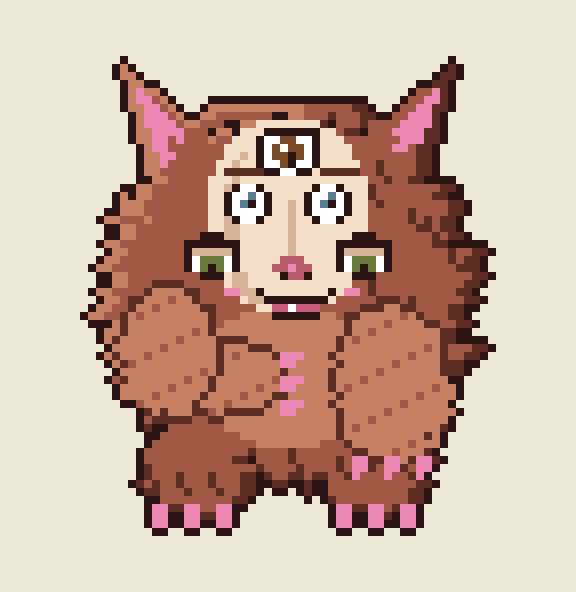
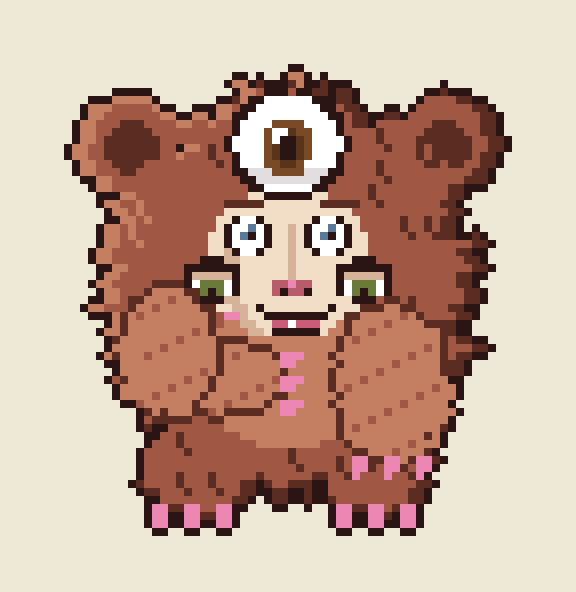
Creature concept: big cyclops eye near the peak, rounded fur ears
Claude-Session: https://claude.ai/code/session_01JpLHzsYAvEKzmccr94t7N9

diff --git a/android/play/concepts/make_creature.py b/android/play/concepts/make_creature.py
@@ -43,38 +43,40 @@ def fuzzy(cx, cy, rx, ry, c, seed, amp=0.08):
 # --- stubby legs with pink claws
 fuzzy(19, 53, 7, 5.5, 'F', 11); fuzzy(41, 53, 7, 5.5, 'F', 12)
 for x in (14, 18, 22, 37, 41, 45): poly([(x - 1.6, 57), (x + 1.6, 57), (x, 61)], 'P')
-# --- pointed ears, pink inside
-poly([(13, 18), (9, 2), (22, 12)], 'F'); poly([(14, 15), (11, 5), (19, 12)], 'P')
-poly([(47, 18), (51, 2), (38, 12)], 'F'); poly([(46, 15), (49, 5), (41, 12)], 'P')
-# --- the round fluffy body
-fuzzy(30, 31, 23, 22, 'F', 3, 0.07)
+# --- rounded furry ears (same fur, a darker inner hollow)
+fuzzy(10, 12, 6.5, 6, 'F', 31, 0.05); ell(10.5, 12.5, 3.6, 3.2, 'd')
+fuzzy(50, 12, 6.5, 6, 'F', 32, 0.05); ell(49.5, 12.5, 3.6, 3.2, 'd')
+# --- the round fluffy body, a little taller so the big eye sits near the peak
+fuzzy(30, 30, 23, 24, 'F', 3, 0.07)
 # a soft lighter belly
 ell(30, 41, 11, 9, 'f', keep='F')
 # --- the face patch: pale, a little long, like the drawing
-ell(30, 21, 10.5, 12.5, 'S')
-ell(26, 22, 4, 10, 's', keep='S'); ell(27.5, 21, 4, 10, 'S')
-# fur fringe over the forehead
-poly([(20, 7), (40, 7), (42, 11), (36, 9), (30, 8), (24, 9), (18, 11)], 'F')
+ell(30, 27, 10.5, 9.5, 'S')
+ell(26, 28, 4, 8, 's', keep='S'); ell(27.5, 27, 4, 8, 'S')
 
-# --- (1) calm third eye: round, steady, warm brown iris, soft lid
-ell(30, 13, 4.2, 3.4, 'k'); ell(30, 13, 3.3, 2.6, 'W'); ell(30, 13.3, 1.9, 1.9, '1'); put(30, 13, 'k'); put(30, 14, 'k'); put(29, 12, 'W')
-row(27, 33, 10, 'k')
+# --- (1) the big calm cyclops eye near the peak of the head: a round white, a large warm brown iris
+ell(30, 12, 7.6, 7.0, 'k'); ell(30, 12, 6.6, 6.0, 'W')
+ell(30, 12.5, 3.4, 3.4, '1'); ell(30, 12.5, 2.3, 2.3, 'i'); ell(30, 12.5, 1.4, 1.4, 'k')
+put(28, 10, 'W'); put(29, 10, 'W'); put(28, 11, 'W'); put(32, 14, 'W')       # glints
+ell(30, 15.8, 6.2, 1.2, 'e', keep='W')                                        # soft shadow under the lid
+# fur tufts curling over the eye like lashes
+for (x, y) in ((23, 6), (26, 4), (30, 4), (34, 4), (37, 6)): put(x, y, 'd'); put(x, y + 1, 'F')
 # --- (2) curious upper pair: big round whites, blue-grey irises glancing up, brows raised in interest
 for ex in (25, 35):
-    ell(ex, 19.5, 3.2, 3.0, 'k'); ell(ex, 19.5, 2.4, 2.2, 'W'); ell(ex, 19, 1.4, 1.4, '3'); put(ex, 19, 'k'); put(ex - 1, 18, 'W')
-row(22, 26, 15, 'd'); row(34, 38, 15, 'd')
+    ell(ex, 23.5, 3.2, 3.0, 'k'); ell(ex, 23.5, 2.4, 2.2, 'W'); ell(ex, 23, 1.4, 1.4, '3'); put(ex, 23, 'k'); put(ex - 1, 22, 'W')
+row(22, 26, 19, 'd'); row(34, 38, 19, 'd')
 # --- (3) content, sleepy lower pair: happy half-closed lids curving up, green-hazel irises peeking
 for ex in (20.5, 39.5):
-    ell(ex, 26, 3.4, 2.8, 'k'); ell(ex, 26.6, 2.5, 1.6, 'W'); ell(ex, 27, 1.3, 1.1, '2'); put(int(ex), 27, 'k')
-    row(ex - 3, ex + 3, 24, 'k'); row(ex - 2, ex + 2, 25, 's')          # relaxed, heavy upper lid
-    put(ex - 3, 27, 'k'); put(ex + 3, 27, 'k')                            # lashes
+    ell(ex, 29, 3.4, 2.8, 'k'); ell(ex, 29.6, 2.5, 1.6, 'W'); ell(ex, 30, 1.3, 1.1, '2'); put(int(ex), 30, 'k')
+    row(ex - 3, ex + 3, 27, 'k'); row(ex - 2, ex + 2, 28, 's')          # relaxed, heavy upper lid
+    put(ex - 3, 30, 'k'); put(ex + 3, 30, 'k')                            # lashes
 # rosy cheeks
-for (x, y) in ((22, 30), (23, 30), (37, 30), (38, 30)): put(x, y, 'P')
+for (x, y) in ((22, 33), (23, 33), (37, 33), (38, 33)): put(x, y, 'P')
 # --- the long nose, a soft round tip
-for y in range(19, 27): put(30, y, 's'); put(31, y, 'S')
-ell(30.5, 27.5, 2.2, 1.5, 'p'); put(29, 28, 'k'); put(32, 28, 'k'); put(30, 27, 'P')
+for y in range(22, 30): put(30, y, 's'); put(31, y, 'S')
+ell(30.5, 30, 2.2, 1.4, 'p'); put(29, 30, 'k'); put(32, 30, 'k'); put(30, 29, 'P')
 # --- a small friendly smile with one little tooth
-row(27, 34, 31, 'k'); row(28, 33, 32, 'M'); row(26, 26, 30, 'k'); row(35, 35, 30, 'k'); put(30, 32, 'W'); row(28, 33, 33, 'k')
+row(27, 34, 33, 'k'); row(28, 33, 34, 'M'); row(26, 26, 32, 'k'); row(35, 35, 32, 'k'); put(30, 34, 'W'); row(28, 33, 35, 'k')
 
 # --- arms: big furry forearms, each outlined with a dark crease so it reads in front of the body
 def arm(draw):
@@ -117,7 +119,7 @@ for _ in range(120):
 
 COL = {'F': (0xA0, 0x58, 0x44), 'f': (0xC4, 0x7E, 0x62), 'd': (0x5A, 0x2C, 0x22), 'P': (0xEC, 0x86, 0xB2), 'p': (0xB8, 0x5C, 0x6C),
        'S': (0xF2, 0xDE, 0xC6), 's': (0xD6, 0xB2, 0x98), 'W': (0xFF, 0xFF, 0xFF), 'k': (0x2A, 0x14, 0x14),
-       '1': (0x7A, 0x4A, 0x26), '2': (0x6A, 0x7A, 0x3A), '3': (0x5A, 0x7A, 0x96), 'M': (0xC8, 0x5C, 0x7A)}
+       '1': (0x7A, 0x4A, 0x26), '2': (0x6A, 0x7A, 0x3A), '3': (0x5A, 0x7A, 0x96), 'M': (0xC8, 0x5C, 0x7A), 'i': (0x5A, 0x34, 0x1A), 'e': (0xE2, 0xDE, 0xE0)}
 img = Image.new('RGBA', (W + 2, H + 2), (0, 0, 0, 0))
 def filled(x, y): return 0 <= x < W and 0 <= y < H and g[y][x] != '.'
 for y in range(H + 2):
